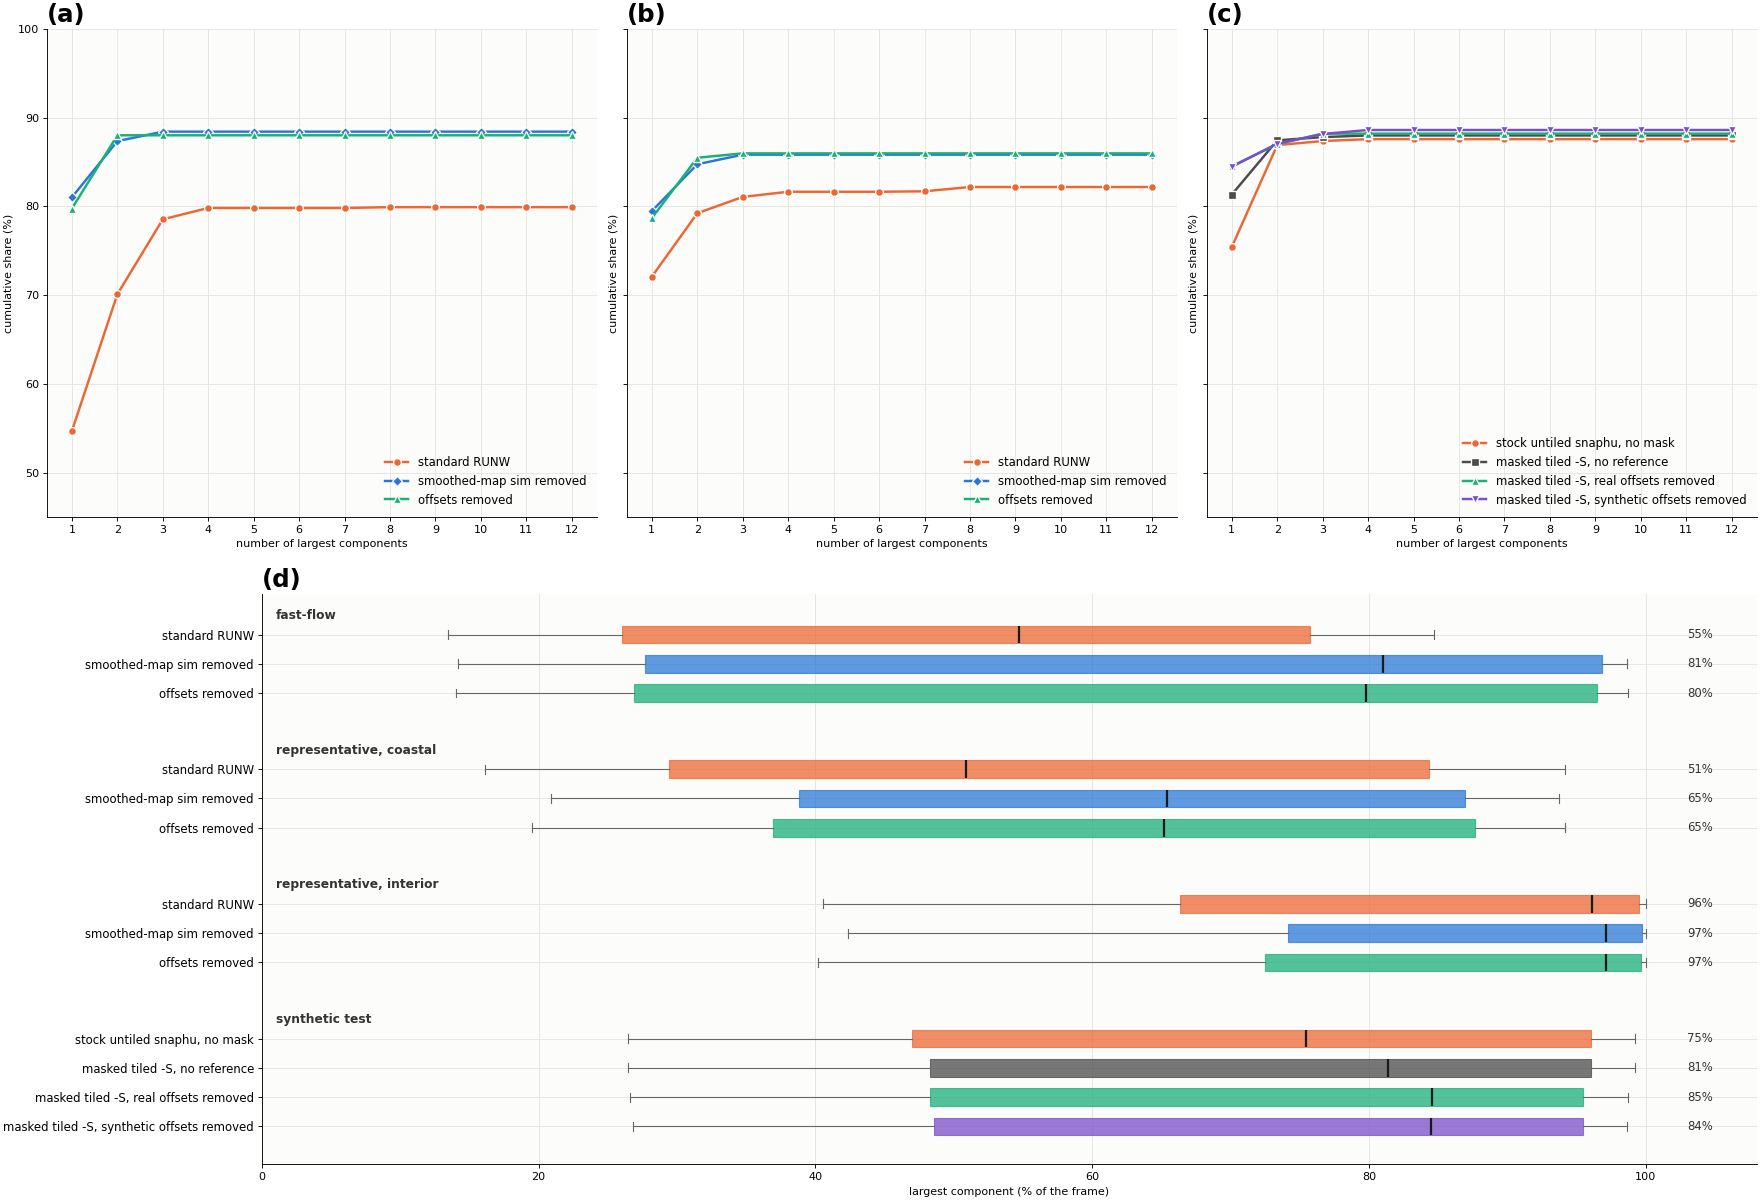
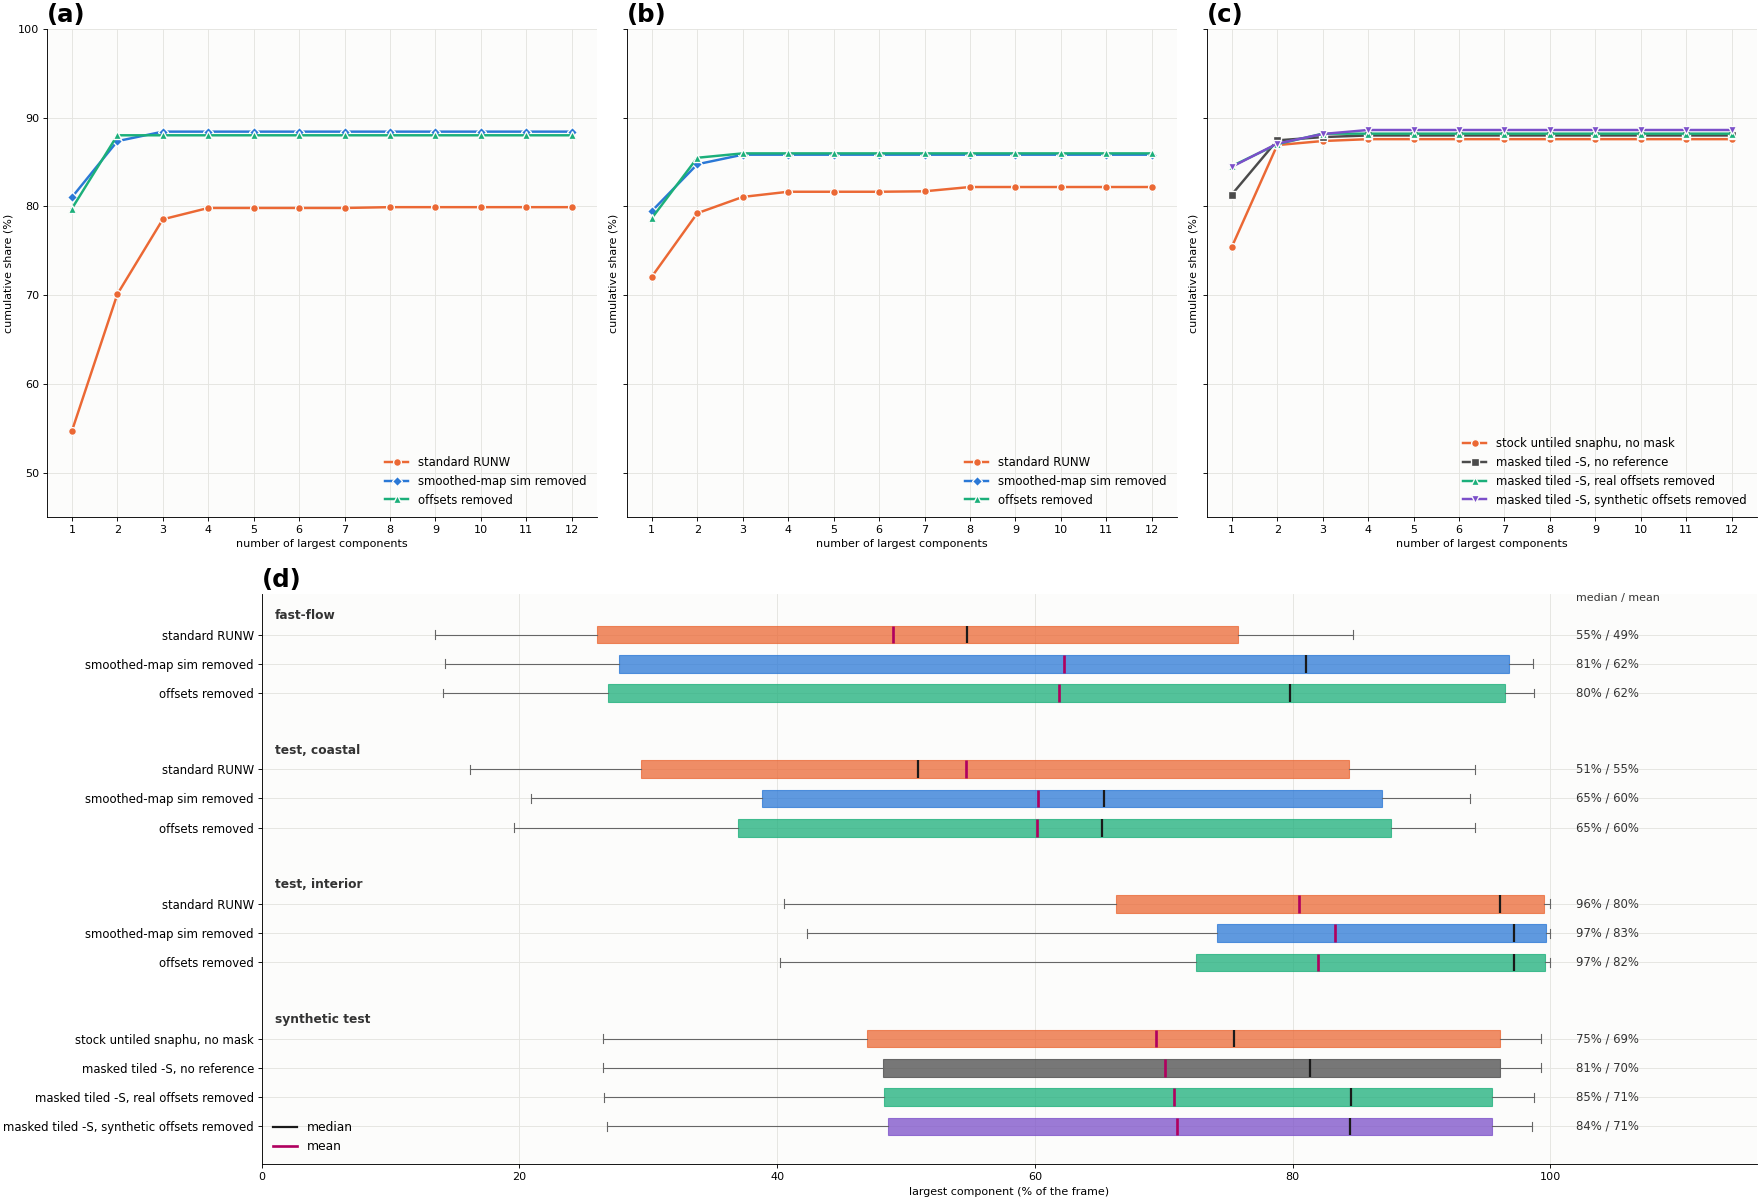
unwrappingReference: Figure 6d shows the mean (magenta) beside the median, with both values at right
Claude-Session: https://claude.ai/code/session_01UG6jZhctxPfaFKqE7cozuF

diff --git a/Documents/unwrappingReference.md b/Documents/unwrappingReference.md
@@ -338,8 +338,7 @@ throughout. (a) The 31 fast-flow frames: cumulative share of valid ice covered b
 over frames (each point a separate median, every frame weighted equally), for the standard RUNW and the two new unwrappings. (b) The same for the 192 test frames. (c) Synthetic test
 (200 frames): the same for the scored area, for stock untiled snaphu with no mask, masked tiled `-S` with no reference,
 and masked tiled `-S` with the real or synthetic offsets removed. (d) The largest component per frame, for the
-fast-flow frames, the coastal (112) and interior (80) test frames, and the synthetic test (box 25-75%, line median with
-its value at right, whiskers 10-90%).*
+fast-flow frames, the coastal (112) and interior (80) test frames, and the synthetic test (box 25-75% of frames, black line median, magenta line mean, whiskers 10-90%; median / mean at right).*
 
 ### 3.2 Accuracy: are the bigger components noisier?
 
